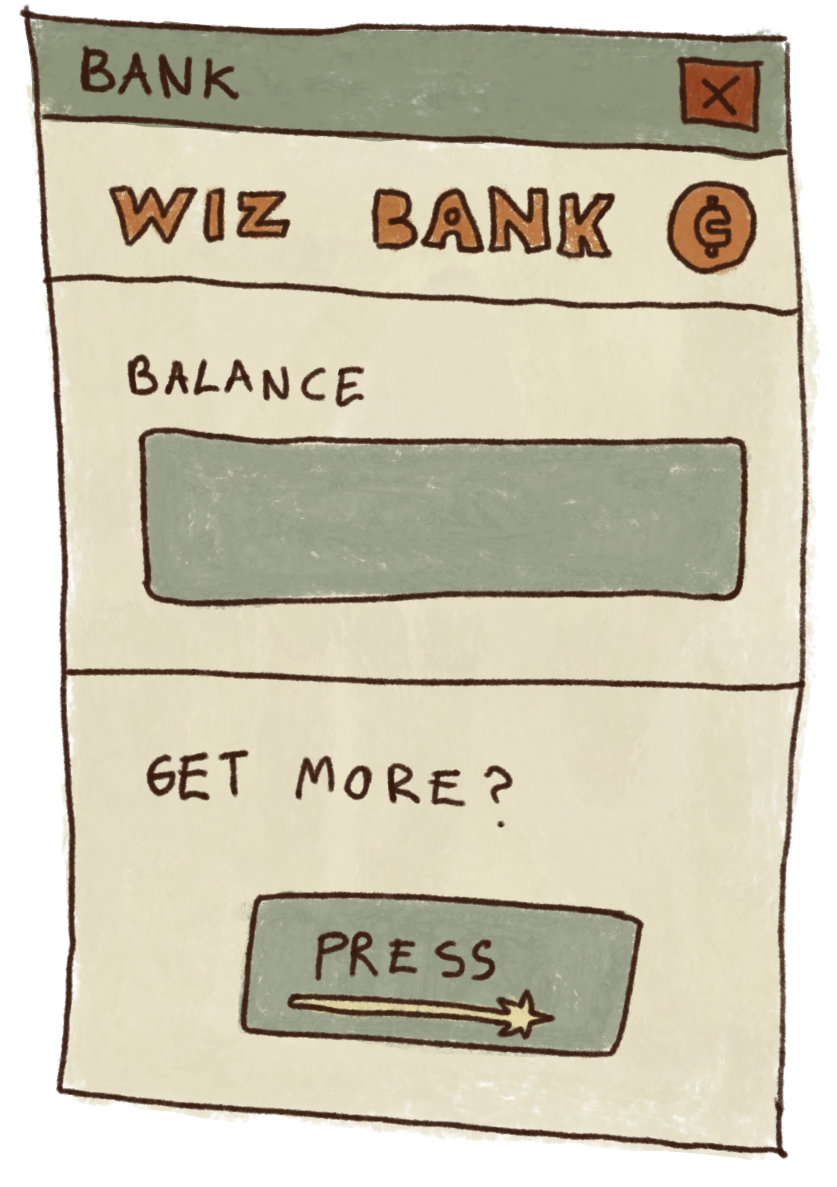
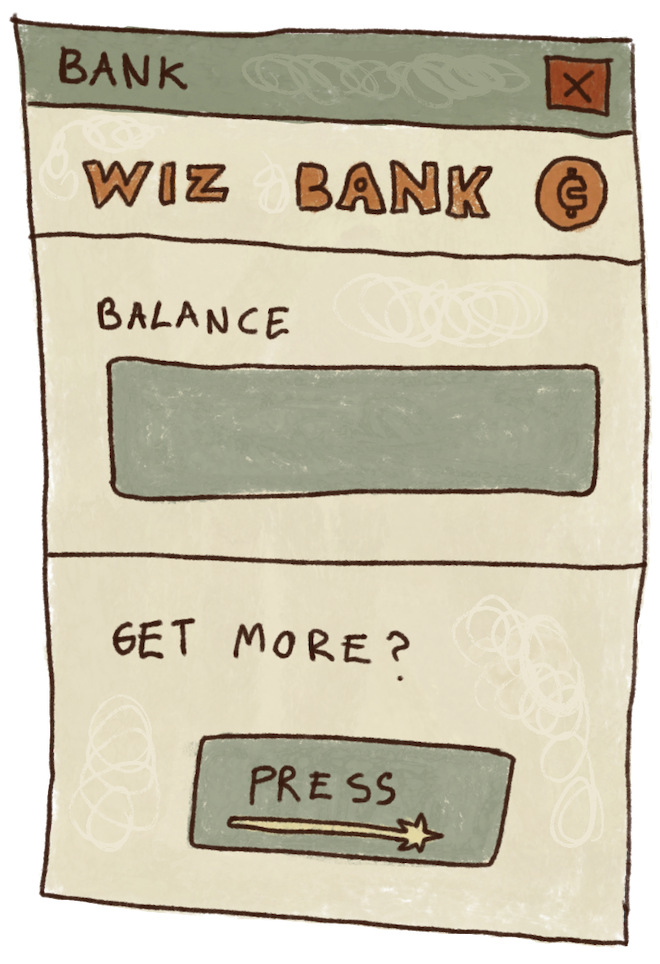
{LB} bank png clean up

diff --git a/sketch.js b/sketch.js
@@ -68,8 +68,15 @@ let images = {
                     // The balance readout and PRESS button are baked into
                     // this art, not separate nodes — see the "BANK APP"
                     // section further down for how clicks on them work.
+                    // bank_home.png was replaced with a cleaned-up-edges
+                    // version at a different native resolution (837x1187 ->
+                    // 660x964, and not quite the same aspect ratio) — 0.6124
+                    // is the recomputed scale that keeps its on-screen
+                    // footprint matching the old art as closely as a single
+                    // uniform scale can (it's the average of the width-
+                    // matching and height-matching ratios, ~1.5% off each).
                     id: "bank_home", path: "computer/bank_home.png",
-                    coordinates_by_percentage: [50, 50], scale: 0.49,
+                    coordinates_by_percentage: [50, 50], scale: 0.6124,
                     do_dark_background: true,
                     // Keeps these two templates from also rendering
                     // statically at their own placeholder coordinates